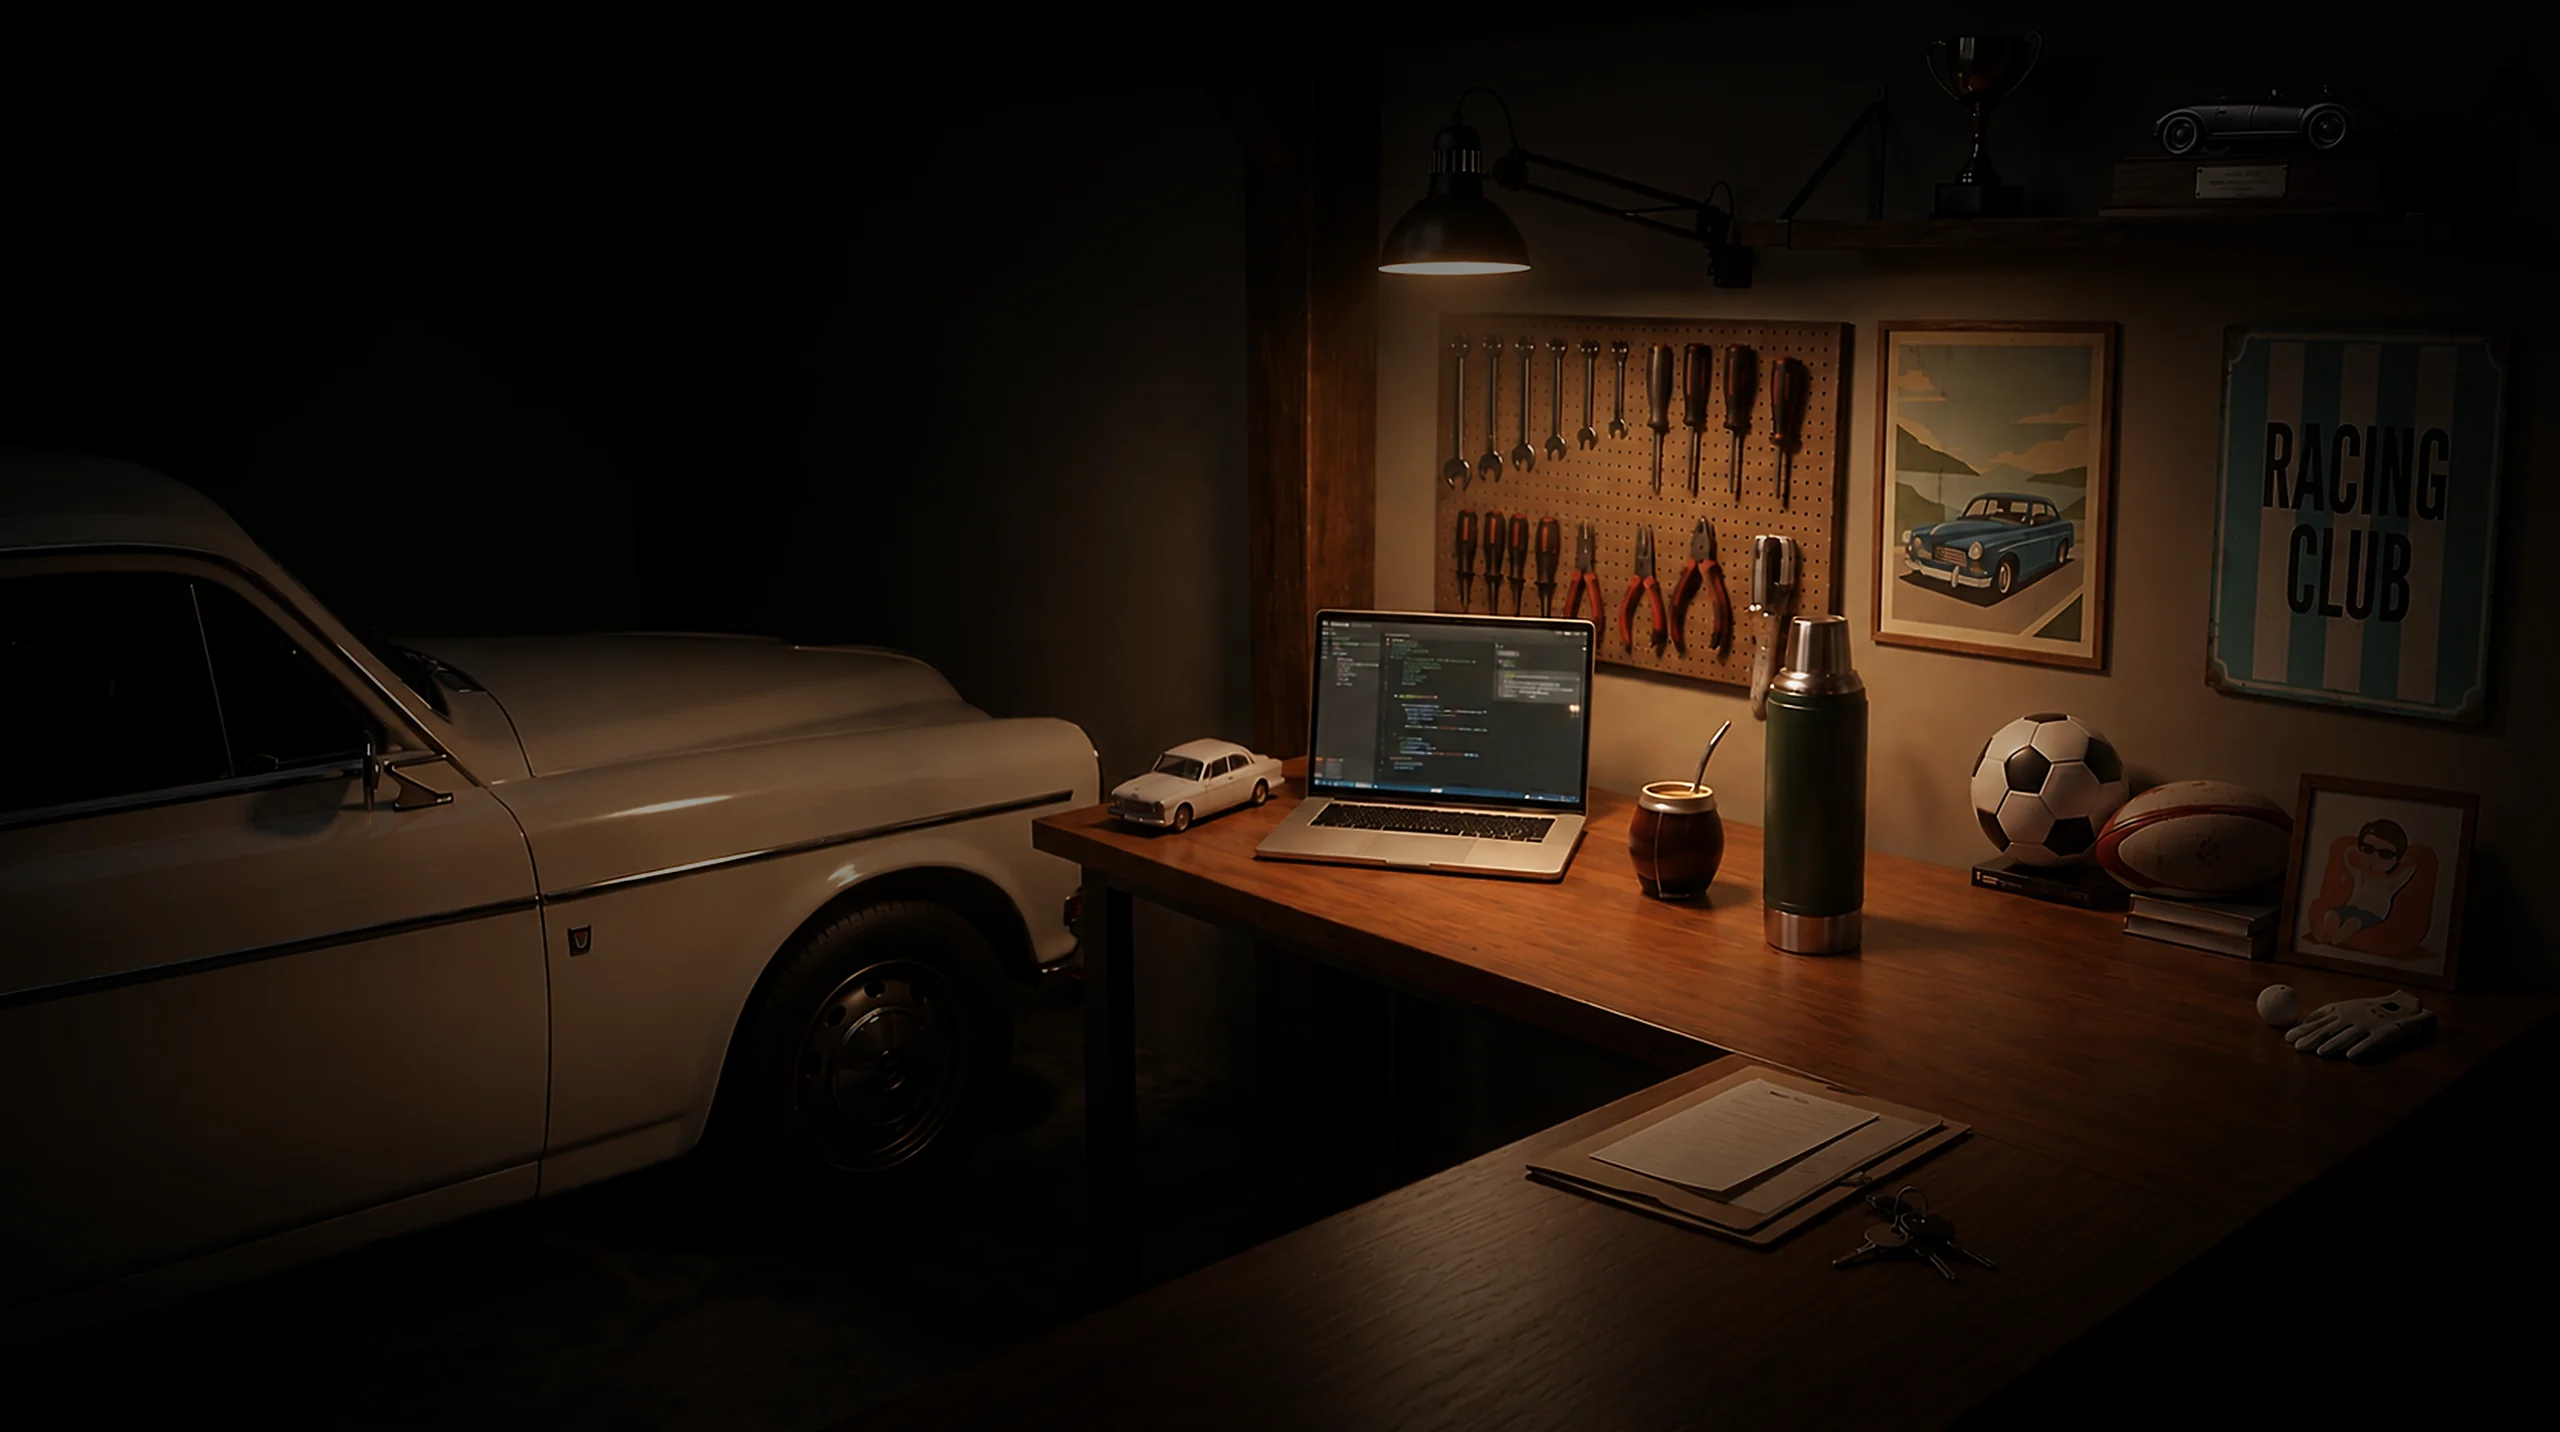
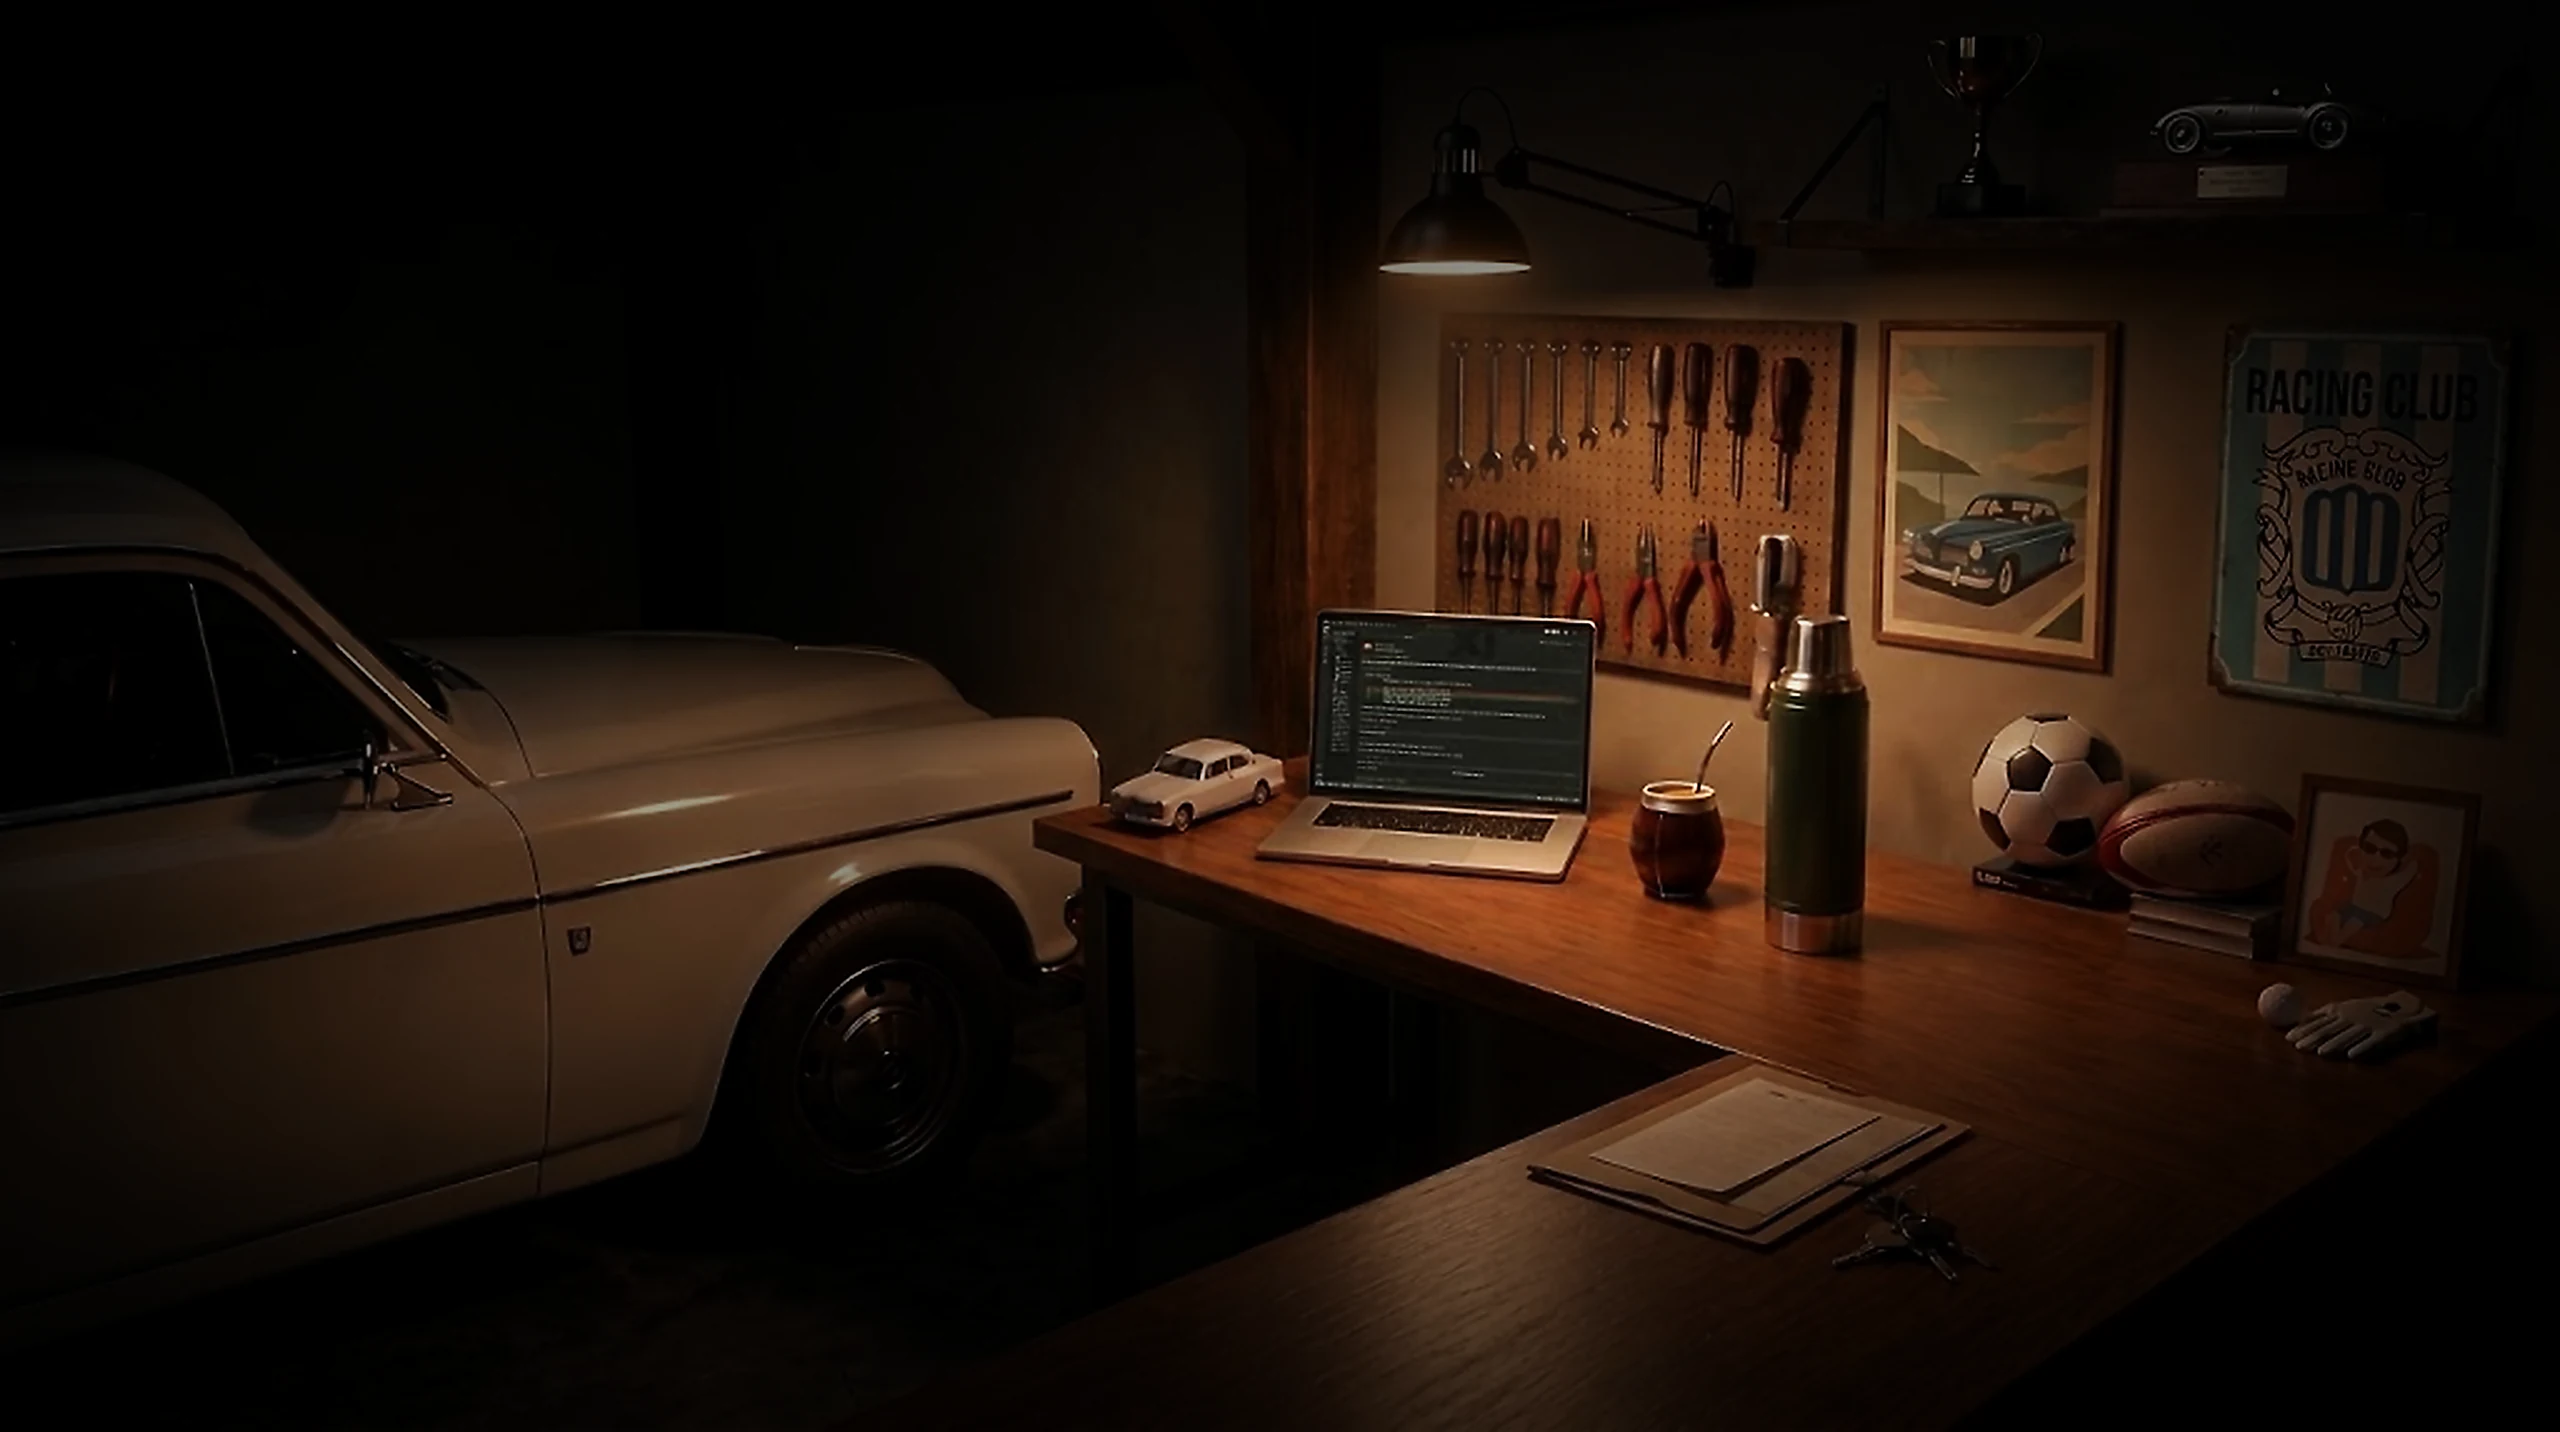
Escena nueva mejorada (chapa de Racing con escudo) y menos zoom/parallax en la home
Claude-Session: https://claude.ai/code/session_01DYvLDrG6E4nKeTnPbicR5p

diff --git a/src/components/Scene.tsx b/src/components/Scene.tsx
@@ -85,8 +85,8 @@ export function Scene({ onEnter }: { onEnter: (route: Route) => void }) {
 
   const onMove = (e: React.MouseEvent) => {
     if (isTouch || zoom || reduceMotion) return
-    mx.set((e.clientX / window.innerWidth - 0.5) * -18)
-    my.set((e.clientY / window.innerHeight - 0.5) * -12)
+    mx.set((e.clientX / window.innerWidth - 0.5) * -10)
+    my.set((e.clientY / window.innerHeight - 0.5) * -7)
   }
 
   const hoveredRect = hovered !== null ? rects[hovered] : null
@@ -101,7 +101,7 @@ export function Scene({ onEnter }: { onEnter: (route: Route) => void }) {
         transition={{ duration: 1.1, ease: [0.7, 0, 0.84, 0] }}
         onAnimationComplete={() => zoom && go(zoom.route)}
       >
-        <motion.div className="absolute inset-0" style={{ x: sx, y: sy, scale: isTouch ? 1 : 1.04 }}>
+        <motion.div className="absolute inset-0" style={{ x: sx, y: sy, scale: isTouch ? 1 : 1.02 }}>
           <svg
             viewBox={`0 0 ${SCENE_W} ${SCENE_H}`}
             preserveAspectRatio={isPortrait ? 'xMidYMid meet' : 'xMidYMid slice'}
